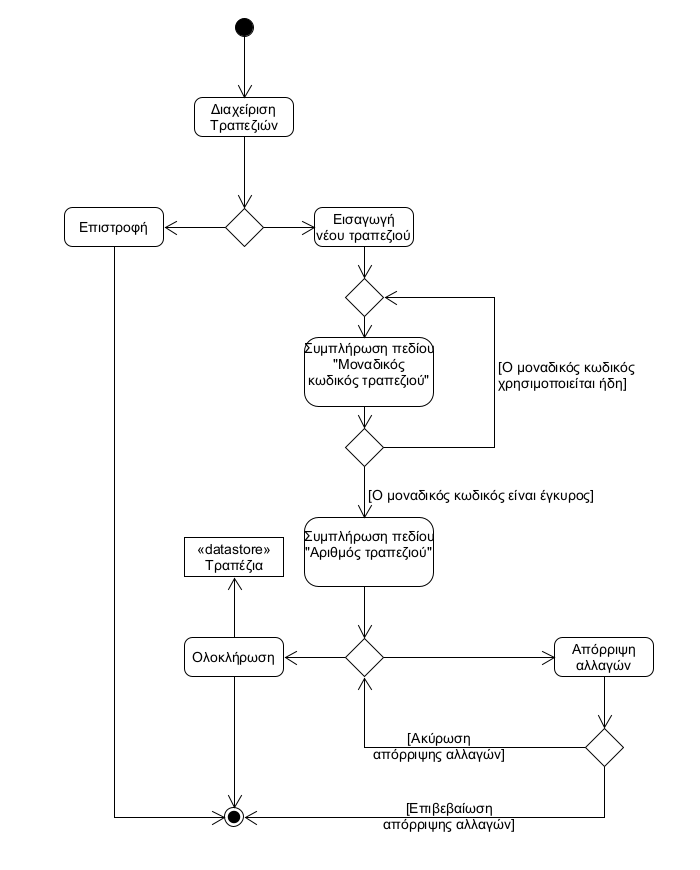
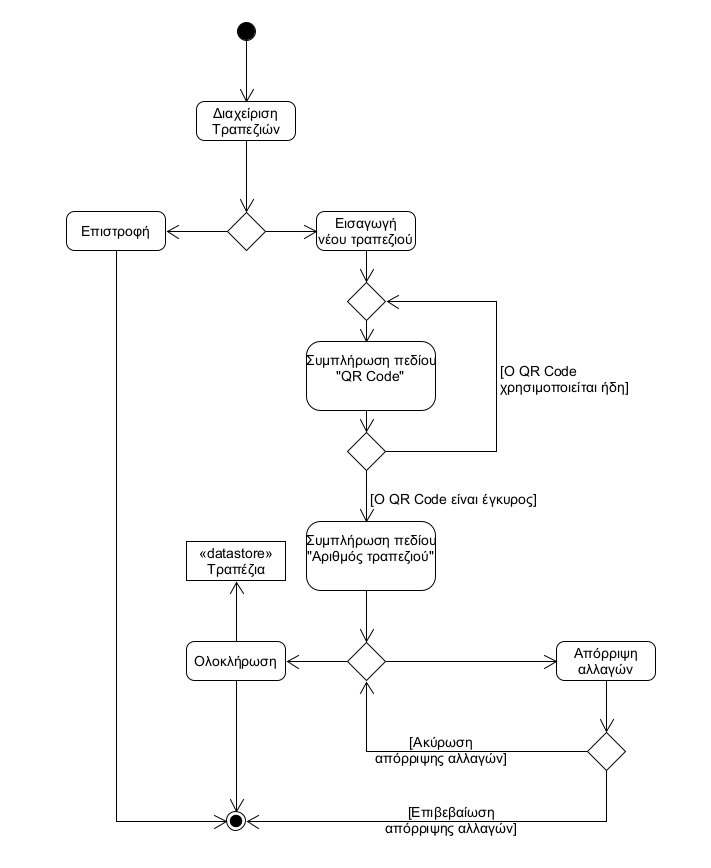
Change md files

Changed region(s): [[0.09, 0.0, 0.93, 0.9643], [0.69, 0.3422, 0.9, 0.5288]]

diff --git a/docs/markdown/uc8-process-order.md b/docs/markdown/uc8-process-order.md
@@ -1,31 +1,33 @@
-## ΠΧ8. Εκτέλεση παραγγελίας
-Πρωτεύων actor: barista
+# ΠΧ8. Εκτέλεση παραγγελίας
 
-Ενδιαφερόμενοι:
-πελάτης: θέλει να ενημερώνεται για την κατάσταση της παραγγελίας του
+**Πρωτεύων Actor**: barista
 
-Προϋποθέσεις: να έχουν ολοκληρωθεί με επιτυχία οι περιπτώσεις χρήσης 1 και 7
+**Ενδιαφερόμενοι**
+-_Πελάτης_: Θέλει να ενημερώνεται για την κατάσταση της παραγγελίας του.
 
-#### Βασική Ροή
-1. Ο barista διαλέγει την επιλογή "Προβολή εκκρεμών παραγγελιών"
-2. Ο barista ανακατευθύνεται στη σελίδα με τη λίστα των εκκρεμών παραγγελιών
-3. Ο barista διαλέγει την επιλογή "επόμενη παραγγελία"
-4. Το σύστημα φορτώνει την επόμενη καταχωρημένη παραγγελία στη σειρά προτεραιότητας
-5. Ο barista θέτει την κατάσταση παραγγελίας σε "Σε προετοιμασία"
-6. O barista ετοιμάζει τα προϊόντα της παραγγελίας
-7. Ο barista θέτει την κατάσταση παραγγελίας σε "Ολοκληρωμένη"
-8. Τα στοιχεία της παραγγελίας αποθηκεύονται στο σύστημα για στατιστικούς σκοπούς
+**Προϋποθέσεις**: Να έχουν ολοκληρωθεί με επιτυχία η ΠΧ1 και η ΠΧ7.
 
-#### Εναλλακτικές Ροές
-6α. Κάποιο προϊόν δεν είναι διαθέσιμο
-1. Ο barista ακυρώνει το προϊόν από την παραγγελία
-2. Το σύστημα ενημερώνει τον πελάτη
-3. Η περίπτωση χρήσης επιστρέφει στο βήμα 6 της βασικής ροής
+### Βασική Ροή
+1. Ο barista διαλέγει την επιλογή "Προβολή εκκρεμών παραγγελιών".
+2. Ο barista ανακατευθύνεται στη σελίδα με τη λίστα των εκκρεμών παραγγελιών.
+3. Ο barista διαλέγει την επιλογή "Eπόμενη παραγγελία".
+4. Το σύστημα φορτώνει την επόμενη καταχωρημένη παραγγελία στη σειρά προτεραιότητας.
+5. Ο barista θέτει την κατάσταση παραγγελίας σε "Σε εξέλιξη".
+6. O barista ετοιμάζει τα προϊόντα της παραγγελίας.
+7. Ο barista θέτει την κατάσταση παραγγελίας σε "Ολοκληρωμένη".
+8. Τα στοιχεία της παραγγελίας αποθηκεύονται στο σύστημα για στατιστικούς σκοπούς.
 
-6β. Κανένα προϊόν δεν είναι διαθέσιμο
-1. Ο barista ακυρώνει όλη την παραγγελία
-2. Το σύστημα ενημερώνει τον πελάτη
-3. Η περίπτωση χρήσης τερματίζει
+### Εναλλακτικές Ροές
+
+*6α. Κάποιο προϊόν δεν είναι διαθέσιμο*
+1. Ο barista ακυρώνει το προϊόν από την παραγγελία.
+2. Το σύστημα ενημερώνει τον πελάτη.
+3. Η περίπτωση χρήσης επιστρέφει στο βήμα 6 της βασικής ροής.
+
+*6β. Κανένα προϊόν δεν είναι διαθέσιμο*
+1. Ο barista ακυρώνει όλη την παραγγελία.
+2. Το σύστημα ενημερώνει τον πελάτη.
+3. Η περίπτωση χρήσης τερματίζει.
 
 ### Activity Diagram
 ![ΠΧ8 - Διάγραμμα Δραστηριότητας](../markdown/uml/requirements/activity-process-order.png)

diff --git a/docs/markdown/uc4-manager-tables-management.md b/docs/markdown/uc4-manager-tables-management.md
@@ -3,8 +3,8 @@
 **Πρωτεύων Actor**: Διεύθυνση
 
 **Ενδιαφερόμενοι**
-**Πελάτης**: Θέλει να εισάγει τον μοναδικό κωδικό του τραπεζιού του και να το βρίσκει, με σκοπό να πραγματοποιήσει μια παραγγελία.
-**Barista**: Θέλει να βλέπει σε ποιο τραπέζι αντιστοιχεί η κάθε παραγγελία.
+- _Πελάτης_: Θέλει να εισάγει τον μοναδικό κωδικό του τραπεζιού του και να το βρίσκει, με σκοπό να πραγματοποιήσει μια παραγγελία.
+- _Barista_: Θέλει να βλέπει σε ποιο τραπέζι αντιστοιχεί η κάθε παραγγελία.
 
 **Προϋποθέσεις**: Η διεύθυνση έχει εκτελέσει με επιτυχία τη ΠΧ3 και έχει συνδεθεί.
 
@@ -13,7 +13,7 @@
 ### Βασική Ροή
 1. Από το μενού της διευθύνσης, επιλέγει "Διαχείριση Τραπεζιών".
 2. Διαλέγει την επιλογή "Εισαγωγή νέου τραπεζιού".
-3. Συμπληρώνει το πεδίο "Μοναδικός κωδικός τραπεζιού".
+3. Συμπληρώνει το πεδίο "QR Code τραπεζιού".
 4. Συμπληρώνει το πεδίο "Αριθμός τραπεζιού".
 5. Το σύστημα εμφανίζει την επιλογή "Ολοκλήρωση".
 6. Η διεύθυνση εισάγει το τραπέζι πατώντας το κουμπί "Ολοκλήρωση".
@@ -24,8 +24,8 @@
 *2α. Η διεύθυνση πατάει το κουμπί "Επιστροφή"*
 1. Το σύστημα επιστρέφει στο μενού της διεύθυνσης και η περίπτωση χρήσης τερματίζεται.
 
-*3α. Ο μοναδικός κωδικός που εισάγει ο χρήστης χρησιμοποιείται ήδη*
-1. Το σύστημα εμφανίζει αντίστοιχο μήνυμα που ζητάει να εισαχθεί διαφορετικός μοναδικός κωδικός.
+*3α. Ο QR Code που εισάγει ο χρήστης χρησιμοποιείται ήδη*
+1. Το σύστημα εμφανίζει αντίστοιχο μήνυμα που ζητάει να εισαχθεί διαφορετικός QR Code.
 2. Η περίπτωση χρήσης επιστρέφει στο βήμα 3 της βασικής ροής.
 
 *\* Η διεύθυνση πατάει το κουμπί "Απόρριψη αλλαγών"*
@@ -53,9 +53,9 @@
 *3α. Η διεύθυνση πατάει το κουμπί "Επιστροφή"*
 1. Το σύστημα επιστρέφει στο μενού της διεύθυνσης και η περίπτωση χρήσης τερματίζεται.
 
-*4α. Η διεύθυνση αλλάζει τον μοναδικό κωδικό και αυτός που εισάγει χρησιμοποιείται ήδη*
+*4α. Η διεύθυνση αλλάζει το QR Code και αυτός που εισάγει χρησιμοποιείται ήδη*
 1. Το σύστημα απενεργοποιεί το κουμπί "Ολοκλήρωση"
-2. Το σύστημα εμφανίζει αντίστοιχο μήνυμα που ζητάει να εισαχθεί διαφορετικός μοναδικός κωδικός.
+2. Το σύστημα εμφανίζει αντίστοιχο μήνυμα που ζητάει να εισαχθεί διαφορετικός QR Code.
 3. Η περίπτωση χρήσης επιστρέφει στο βήμα 4 της βασικής ροής.
 
 *4β. Η διεύθυνση διαλέγει την επιλογή "Διαγραφή τραπεζιού"*

diff --git a/README.md b/README.md
@@ -13,25 +13,24 @@
 
 Κατά την εγγραφή του μαγαζιού στο σύστημα, η **διεύθυνση** πρέπει:
 
-1. Να εισάγει τα στοιχεία της επιχείρησης (Όνομα, τηλέφωνο, διεύθυνση κλπ.)
-2. Να καταχωρήσει μοναδικό κωδικό (πχ. QR Code) για κάθε τραπέζι
-3. Να εισάγει το μενού με τις τιμές του
-4. Να δημιουργήσει λογαριασμούς για τη σύνδεση των υπαλλήλων
+1. [Να εισάγει τα στοιχεία της επιχείρησης (Όνομα, τηλέφωνο, διεύθυνση κλπ.)](./docs/markdown/uc3-manager-sign-up.md)
+2. [Να καταχωρήσει μοναδικό κωδικό (πχ. QR Code) για κάθε τραπέζι](./docs/markdown/uc4-manager-tables-management.md)
+3. [Να εισάγει το μενού με τις τιμές του](./docs/markdown/uc5-manager-menu-management.md)
+4. [Να δημιουργήσει λογαριασμούς για τη σύνδεση των υπαλλήλων](./docs/markdown/uc3-manager-sign-up.md)
 
 Συνεπώς, οι **πελάτες** μπορούν:
 
-1. Να καταχωρήσουν την παραγγελία τους, μέσω του μοναδικού κωδικού του τραπεζιού
-2. Να παρακολουθούν την εξέλιξη της παραγγελίας τους (στάδιο προετοιμασίας της)
+1. [Να καταχωρήσουν την παραγγελία τους, μέσω του μοναδικού κωδικού του τραπεζιού](./docs/markdown/uc1-client-order.md)
+2. [Να παρακολουθούν την εξέλιξη της παραγγελίας τους (στάδιο προετοιμασίας της)](./docs/markdown/uc2-client-order-state.md)
 
 Ο **barista** έχει τη δυνατότητα:
 
-1. Να συνδέεται στο σύστημα με τον λογαριασμό που δημιούργησε η διεύθυνση
-2. Να προβάλλει τις εκκρεμείς παραγγελίες
-3. Να εκτελεί την επιλεγμένη παραγγελία
+1. [Να συνδέεται στο σύστημα με τον λογαριασμό που δημιούργησε η διεύθυνση](./docs/markdown/uc7-barista-login.md)
+2. [Να εκτελεί την επόμενη παραγγελία](./docs/markdown/uc8-process-order.md)
 
 Συγκεκριμένα, ο barista ξεκινάει να ετοιμάζει τις παραγγελίες με τη σειρά που τις λαμβάνει. Για κάθε προϊόν της παραγγελίας ελέγχει αν έχει τη δυνατότητα να το ετοιμάσει (αν έχει όλα τα απαραίτητα υλικά). Αν μπορεί, το φτιάχνει και το σημειώνει ως έτοιμο. Αλλιώς ενημερώνει τον πελάτη μέσω της εφαρμογής πως δεν είναι διαθέσιμο.
 
-Το σύστημα πρέπει να κρατάει στη μνήμη τις ενεργές παραγγελίες για να τις διαχειρίζονται οι υπάλληλοι, *καθώς και τα συνολικά ημερήσια και μηνιαία έσοδα για να πληροφορεί την διεύθυνση.*
+Το σύστημα πρέπει να κρατάει στη μνήμη τις ενεργές παραγγελίες για να τις διαχειρίζονται οι υπάλληλοι, *[καθώς και τα συνολικά ημερήσια και μηνιαία έσοδα για να πληροφορεί την διεύθυνση.](./docs/markdown/uc6-manager-records.md)*
 
 ### Use case diagram
 

diff --git a/docs/markdown/uc7-barista-login.md b/docs/markdown/uc7-barista-login.md
@@ -1,22 +1,24 @@
-## ΠΧ7. Σύνδεση barista
-Πρωτεύων actor: barista
+# ΠΧ7. Σύνδεση barista
 
-Ενδιαφερόμενοι:
-barista: θέλει να έχει λογαριασμό στην εφαρμογή ώστε να μπορεί να συνδέεται  και να διαχειρίζεται τις παραγγελίες της καφετέριας.
+**Πρωτεύων Actor**: Βarista
 
-Προϋποθέσεις: ο ιδιοκτήτης να έχει εκτελέσει με επιτυχία την περίπτωση χρήσης 3.
+**Ενδιαφερόμενοι**
+- _Βarista_: Θέλει να έχει λογαριασμό στην εφαρμογή ώστε να μπορεί να συνδέεται  και να διαχειρίζεται τις παραγγελίες της καφετέριας.
 
-#### Βασική Ροή
-1. Ο barista διαλέγει την επιλογή "Σύνδεση Προσωπικού"
-2. Ο barista ανακατευθύνεται στη σελίδα σύνδεσης προσωπικού
-3. Ο barista εισάγει το όνομα χρήστη και κωδικό που του έχουν δοθεί από τη διεύθυνση
-4. Το σύστημα ελέγχει την εγκυρότητα των στοιχείων
-5. Ο barista συνδέεται επιτυχώς στον λογαριασμό του
+**Προϋποθέσεις**: O ιδιοκτήτης να έχει εκτελέσει με επιτυχία την περίπτωση χρήσης 3.
 
-#### Εναλλακτικές Ροές
-5α. Τα στοιχεία που εισήγαγε ο χρήστης είναι λανθασμένα
-1. Το σύστημα εμφανίζει κατάλληλο μήνυμα σφάλματος
-2. Η περίπτωση χρήσης επιστρέφει στο βήμα 2 της βασικής ροής
+### Βασική Ροή
+1. Ο barista διαλέγει την επιλογή "Σύνδεση Προσωπικού".
+2. Ο barista ανακατευθύνεται στη σελίδα σύνδεσης προσωπικού.
+3. Ο barista εισάγει το όνομα χρήστη και κωδικό που του έχουν δοθεί από τη διεύθυνση.
+4. Το σύστημα ελέγχει την εγκυρότητα των στοιχείων.
+5. Ο barista συνδέεται επιτυχώς στον λογαριασμό του.
+
+### Εναλλακτικές Ροές
+
+*5α. Τα στοιχεία που εισήγαγε ο χρήστης είναι λανθασμένα*
+1. Το σύστημα εμφανίζει κατάλληλο μήνυμα σφάλματος.
+2. Η περίπτωση χρήσης επιστρέφει στο βήμα 2 της βασικής ροής.
 
 ### Activity Diagram
 ![ΠΧ7 - Διάγραμμα Δραστηριότητας](../markdown/uml/requirements/activity-barista-login.png)

diff --git a/docs/markdown/uc3-manager-sign-up.md b/docs/markdown/uc3-manager-sign-up.md
@@ -1,25 +1,28 @@
-# ΠΧ3: Εγγραφή καφετέριας 
-**Πρωτεύων Actor:** Διεύθυνση 
+# ΠΧ3. Εγγραφή καφετέριας
 
-**Ενδιαφερόμενοι:**
-- _Διεύθυνση:_ Θέλει να εκμεταλλευθεί τα όσα προσφέρει η εφαρμογή
-- _Πελάτης:_ Θέλει να μπορεί να παραγγέλνει 
-- _Μπαρίστα:_ Θέλει να ξέρει τι εκκρεμότητες έχει
+**Πρωτεύων Actor**: Διεύθυνση
 
-**Προϋποθέσεις:** - 
+**Ενδιαφερόμενοι**
+- _Διεύθυνση_: Θέλει να εκμεταλλευθεί τα όσα προσφέρει η εφαρμογή.
+- _Πελάτης_: Θέλει να μπορεί να παραγγέλνει.
+- _Μπαρίστα_: Θέλει να ξέρει τι εκκρεμότητες έχει.
 
-## Βασική ροή: Εγγραφή καταστήματος 
-1. Είσοδος στο σύστημα 
-2. Συμπλήρωση στοιχείων καταστήματος (επωνυμία κλπ)
-3. Εγγραφή υπαλλήλων (όνομα χρήστη και μοναδικό κωδικό)
+**Προϋποθέσεις**: -
 
-# Εναλλακτική ροή: 
-3α. Μη αποδεκτό όνομα χρήστη
-  1. Εμφάνιση μηνύματος μη αποδοχής του ονόματος χρήστη που καταχωρήθηκε
-  2. Επιστροφή της ΠΧ στο βήμα 2 της βασικής ροής
-  
-3β. Ο κωδικός του χρήστη ήδη χρησιμοποιείται 
-  1. Εμφάνιση μηνύματος μη αποδοχής του κωδικού που καταχωρήθηκε 
-  2. Επιστροφή της ΠΧ στο βήμα 2 της βασικής ροής
+### Βασική ροή
+1. Είσοδος στο σύστημα.
+2. Συμπλήρωση στοιχείων καταστήματος (επωνυμία κλπ).
+3. Εγγραφή υπαλλήλων (όνομα χρήστη και μοναδικό κωδικό).
 
+### Εναλλακτικές ροές
 
+*3α. Μη αποδεκτό όνομα χρήστη*
+1. Εμφάνιση μηνύματος μη αποδοχής του ονόματος χρήστη που καταχωρήθηκε.
+2. Επιστροφή της ΠΧ στο βήμα 2 της βασικής ροής.
+
+*3β. Ο κωδικός του χρήστη ήδη χρησιμοποιείται*
+1. Εμφάνιση μηνύματος μη αποδοχής του κωδικού που καταχωρήθηκε.
+2. Επιστροφή της ΠΧ στο βήμα 2 της βασικής ροής.
+
+### Activity Diagram
+![ΠΧ3 - Διάγραμμα Δραστηριότητας](../markdown/uml/requirements/activity-manager-sign-up.png)

diff --git a/docs/markdown/uc1-client-order.md b/docs/markdown/uc1-client-order.md
@@ -1,20 +1,25 @@
-# ΠΧ1: Καταχώρηση παραγγελίας
-**Πρωτευων Actor:** Πελάτης 
+# ΠΧ1. Καταχώρηση παραγγελίας
 
-**Ενδιαφερόμενοι:**
-- _Πελάτης:_ Θέλει η παραγγελία του να φτάσει στον μπαρίστα 
-- _Μπαρίστα:_ Θέλει να βλέπει τις παραγγελίες
+**Πρωτευων Actor** Πελάτης
 
-**Προϋποθέσεις:** Έχει εκτελεσθεί με επιτυχία η ΠΧ4 και η ΠΧ5 αρα υπάρχει διαθέσιμο μενού και κωδικός σε κάθε τραπέζι.
-## Βασική ροή: Παραγγελία στο κατάστημα.
+**Ενδιαφερόμενοι**
+- _Πελάτης_: Θέλει η παραγγελία του να φτάσει στον μπαρίστα.
+- _Barista_: Θέλει να βλέπει τις παραγγελίες.
+
+**Προϋποθέσεις** Έχει εκτελεσθεί με επιτυχία η ΠΧ4 και η ΠΧ5 άρα υπάρχει διαθέσιμο μενού και κωδικός σε κάθε τραπέζι.
+
+### Βασική ροή
 1. Ο πελάτης σκανάρει τον κωδικό QR του τραπεζιού του.
-2. Ο πελάτης εισέρχεται στο σύστημα. 
+2. Ο πελάτης εισέρχεται στο σύστημα.
 3. Το σύστημα παρουσιάζει το μενού του καταστήματος.
-4. Ο πελάτης επιλέγει τα αντικείμενα που επιθυμεί. 
+4. Ο πελάτης επιλέγει τα αντικείμενα που επιθυμεί.
 5. Το σύστημα καταχωρεί τη παραγγελία και τη βάζει στην ουρά με τις εκκρεμεις παραγγελίες.
-### Εναλλακτική ροή: Παραγγελία στο κατάστημα 
-2α. Μη έγκυρος κωδικός QR
-  1. Το σύστημα εμφανίζει μήνυμα μη εγκυρότητας του QR code 
-  2. H ΠΧ επιστρέφει στο βήμα 1 της βασικής ροής
 
+### Εναλλακτική ροή
 
+*2α. Μη έγκυρος κωδικός QR*
+1. Το σύστημα εμφανίζει μήνυμα μη εγκυρότητας του QR code.
+2. H ΠΧ επιστρέφει στο βήμα 1 της βασικής ροής.
+
+### Activity Diagram
+![ΠΧ1 - Διάγραμμα Δραστηριότητας](../markdown/uml/requirements/activity-client-order.png)

diff --git a/docs/markdown/uc2-client-order-state.md b/docs/markdown/uc2-client-order-state.md
@@ -1,16 +1,18 @@
-# ΠΧ2: Παρακολούθηση παραγγελίας
+# ΠΧ2. Παρακολούθηση παραγγελίας
 
-**Πρωτέυων Actor:** Πελάτης 
+**Πρωτέυων Actor** Πελάτης
 
-**Ενδιαφερόμενοι:** - 
+**Ενδιαφερόμενοι** -
 
-**Προϋποθέσεις:** Να έχει εκτελεσθεί με επιτυχία η ΠΧ1
+**Προϋποθέσεις** Να έχει εκτελεσθεί με επιτυχία η ΠΧ1.
 
-## Βασική ροή: Παρακολούθηση παραγγελίας
+### Βασική ροή
 1. Ο πελάτης σκανάρει τον κωδικό QR του τραπεζιού του.
 2. Ο πελάτης εισέρχεται στο σύστημα.
-3. Το σύστημα παρουσιάζει τη κατάσταση της παραγγελίας (εκκρεμεί/σε προετοιμασία) 
-### Εναλλακτική ροή:
-2α. Μη έγκυρος κωδικός QR.
-  1. Το σύστημα εμφανίζει μήνυμα μη εγκυρότητας του κωδικού QR 
-  2. Και η ΠΧ επιστρέφει στο βήμα 1 της βασικής ροής
+3. Το σύστημα παρουσιάζει τη κατάσταση της παραγγελίας (Σε αναμονή / Σε εξέλιξη / Ακυρωμένη)
+
+### Εναλλακτική ροή
+
+*2α. Μη έγκυρος κωδικός QR*
+1. Το σύστημα εμφανίζει μήνυμα μη εγκυρότητας του κωδικού QR.
+2. Η ΠΧ επιστρέφει στο βήμα 1 της βασικής ροής.

diff --git a/docs/markdown/uc6-manager-records.md b/docs/markdown/uc6-manager-records.md
@@ -2,13 +2,16 @@
 
 **Πρωτεύων Actor**: Διεύθυνση
 
+**Ενδιαφερόμενοι** -
+
 **Προϋποθέσεις**: Η διεύθυνση έχει εκτελέσει με επιτυχία τη ΠΧ3 και έχει συνδεθεί.
 
 ### Βασική Ροή
-1. Από το μενού της διεύθυνσης, επιλέγει "Προβολή εσόδων"
+1. Από το μενού της διεύθυνσης, επιλέγει "Προβολή εσόδων".
 2. Επιλέγει μήνα για προβολή.
 3. Το σύστημα εμφανίζει τα συνολικά έσοδα του μήνα και τα ημερήσια για κάθε ημέρα του μήνα.
 
 ### Εναλλακτικές Ροές
+
 *3α. Έχει γίνει λάθος στην αποθήκευση των δεδομένων και δεν είναι δυνατή η προβολή εσόδων*
 1. Το σύστημα εμφανίζει μήνυμα λάθους, επιστρέφει στο μενού της διεύθυνσης και η περίπτωση χρήσης τερματίζει.

diff --git a/docs/markdown/uc5-manager-menu-management.md b/docs/markdown/uc5-manager-menu-management.md
@@ -3,8 +3,8 @@
 **Πρωτεύων Actor**: Διεύθυνση
 
 **Ενδιαφερόμενοι**
-**Πελάτης**: Θέλει να βλέπει το μενού για να πραγματοποιήσει τη παραγγελία του.
-**Barista**: Θέλει να βλέπει προϊόντα από το μενού στην παραγγελία που ετοιμάζει.
+-_Πελάτης_: Θέλει να βλέπει το μενού για να πραγματοποιήσει τη παραγγελία του.
+-_Barista_: Θέλει να βλέπει προϊόντα από το μενού στην παραγγελία που ετοιμάζει.
 
 **Προϋποθέσεις**: Η διεύθυνση έχει εκτελέσει με επιτυχία τη ΠΧ3 και έχει συνδεθεί.
 
